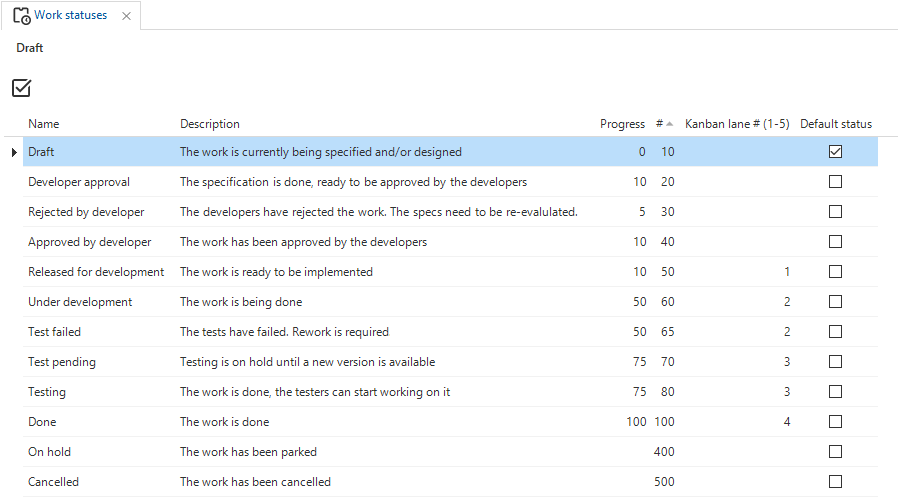
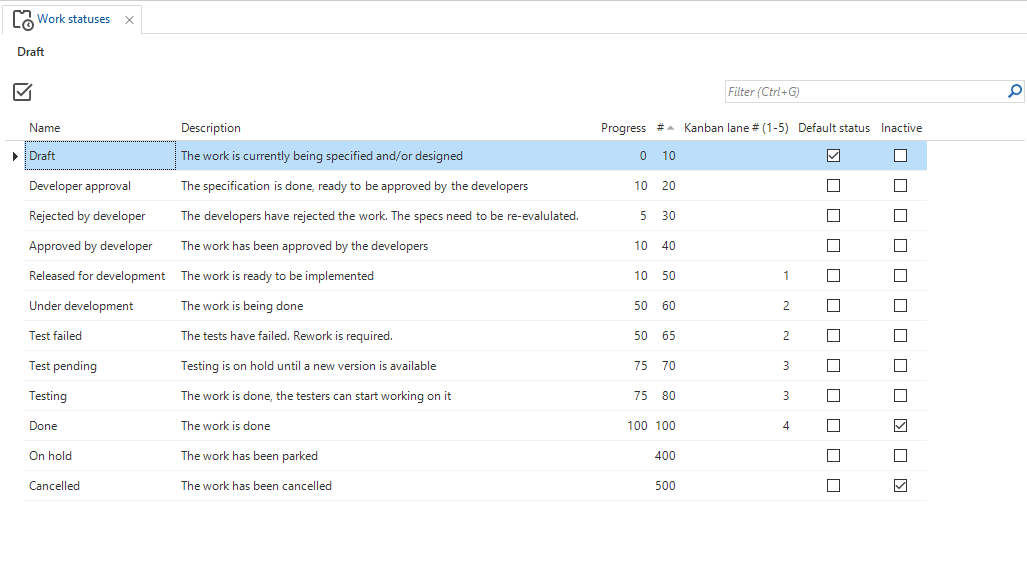
Added information about inactive work status

diff --git a/docs/sf/work.md b/docs/sf/work.md
@@ -25,6 +25,8 @@ The values for work status can be configured freely in the *Advanced menu* under
 
 Additionally, a *Progress* value can be defined for each status. This value will be used when determining the average progress of all work items linked to a requirement, business process, feature or iteration. Work having a status with no progress value will be excluded from this calculation.
 
+It's also possible to define a status as 'inactive'. When a work item has an 'inactive' status it should indicate no more work is being performed on this work item. By default, inactive work items will not be shown in the business process, feature and iteration overviews or in the impact analysis tabs.
+
 > One default status is required and can be set using the ![](assets/sf/icons8-tick-box.svg)*Set as default status* task.
 
 A work status can be configured to correspond to a certain lane in the [kanban board](kanban_board) by specifying the *Kanban sequence no*. When left empty, work with this status will not show up in the kanban board.
